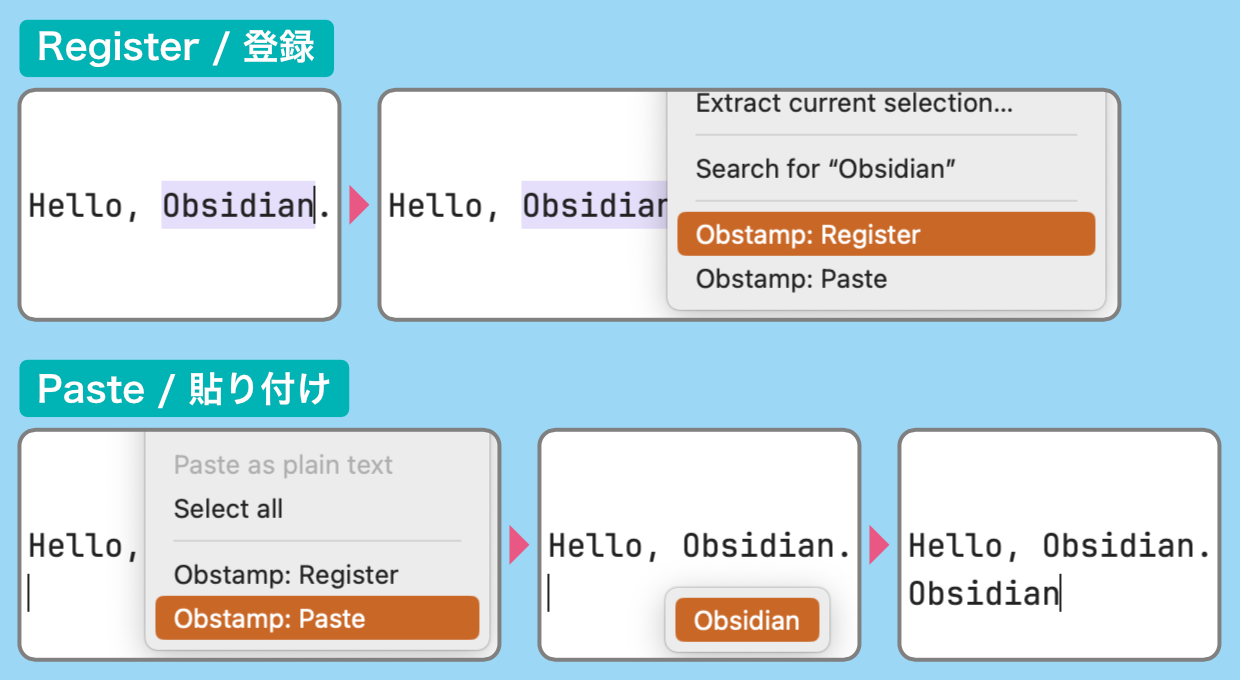
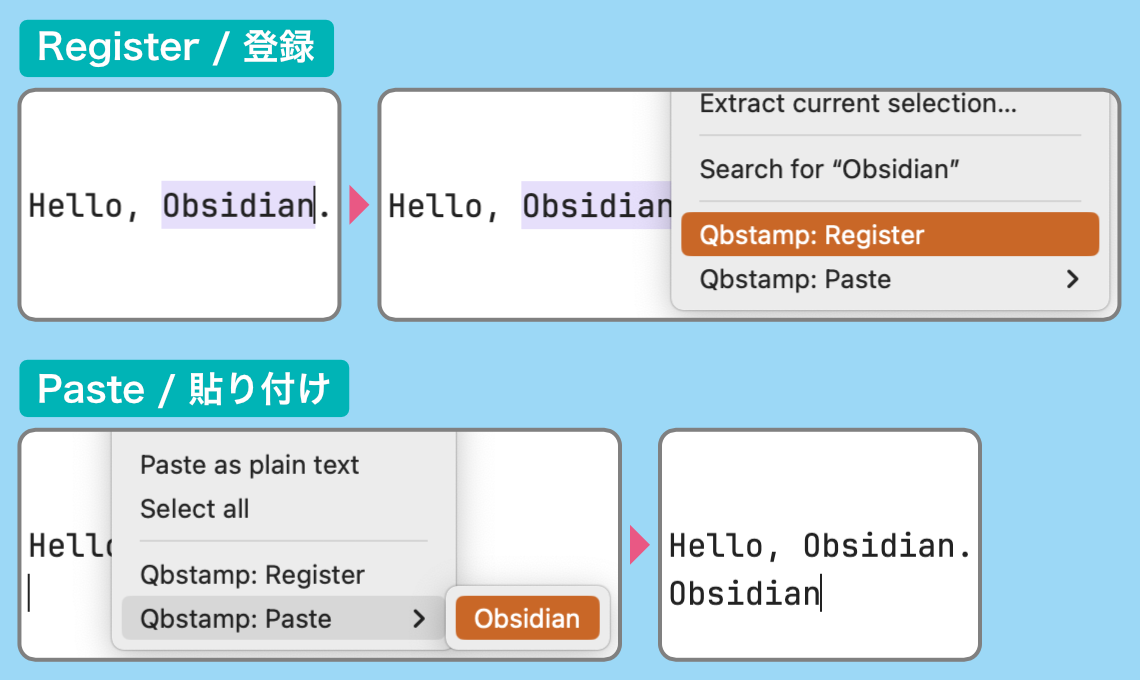
Change README.md

Changed region(s): [[0.0, 0.6176, 1.0, 0.9882], [0.0, 0.0309, 0.9825, 0.4941], [0.0307, 0.525, 0.307, 0.6176]]

diff --git a/README.md b/README.md
@@ -22,10 +22,10 @@ Add a feature to Obsidian that can register and paste any text.
 ### Command / コマンド
 
 It can also be operated from the command palette.  
-Type “obstamp” in the search box.
+Type “qbstamp” in the search box.
 
 コマンドパレットからも操作できます  
-検索ボックスに「obstamp」と入力してください
+検索ボックスに「qbstamp」と入力してください
 
 ![demo02](readmeAssets/demo02.png)
 
